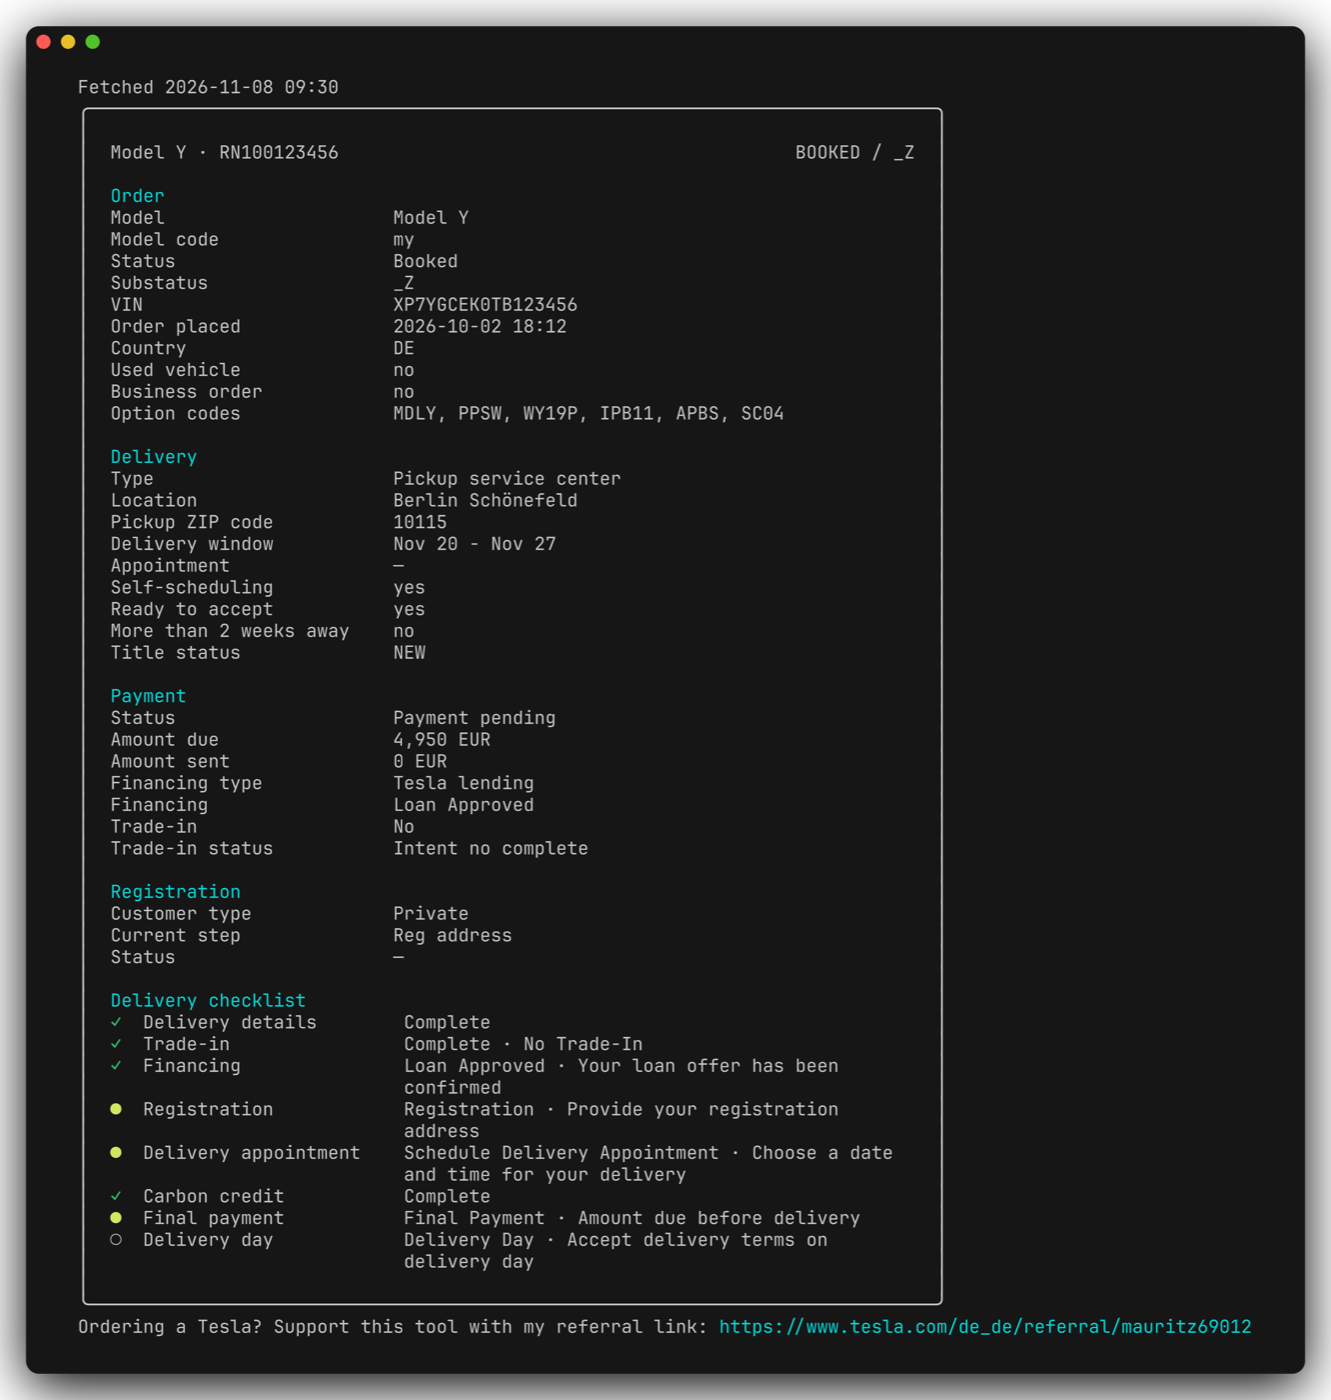
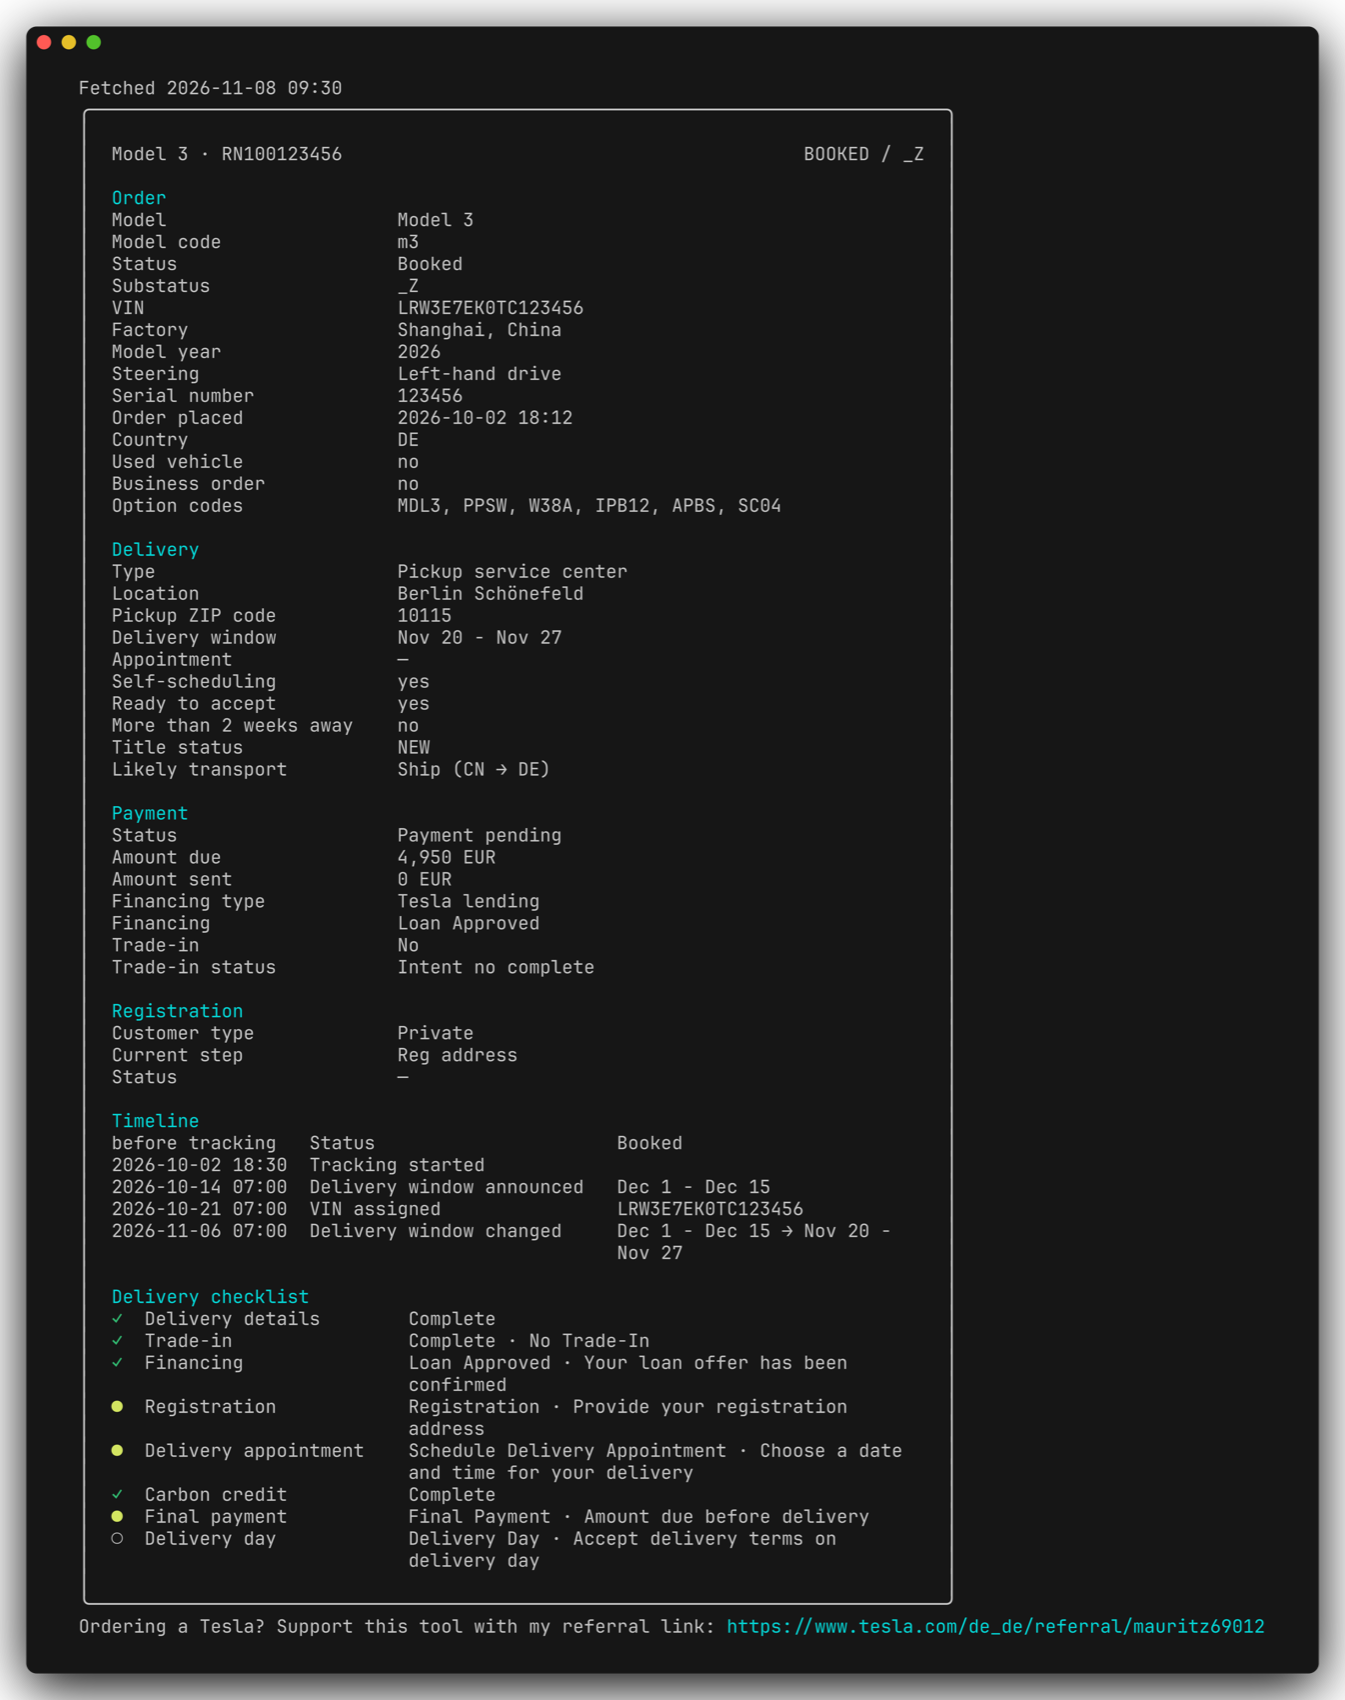
docs: new README screenshot with decoded VIN and timeline
The demo data moves to docs/demo/ (a data folder with orders.json and
timeline.json) so `show --data-dir docs/demo` renders the timeline. The
demo car is now a Shanghai-built Model 3 to show the likely ship transport.

Changed region(s): [[0.0308, 0.0, 0.9857, 1.0], [0.2772, 0.1229, 0.5853, 0.3071]]

diff --git a/README.md b/README.md
@@ -1,8 +1,8 @@
 # tesla-order-cli
 
-<img src="docs/check.png" alt="tesla-order-cli showing an order: status, delivery, payment and the delivery checklist" width="500">
+<img src="docs/check.png" alt="tesla-order-cli showing an order: status, decoded VIN, delivery with likely transport, payment, timeline and the delivery checklist" width="500">
 
-<sub>Example output with demo data (`tesla-order-cli show -i docs/demo-orders.json`).</sub>
+<sub>Example output with demo data (`tesla-order-cli show --data-dir docs/demo`).</sub>
 
 Show your Tesla order details (status, delivery, payment, the app's delivery checklist) and what
 changed since the last check: delivery window, VIN, appointment and so on.
